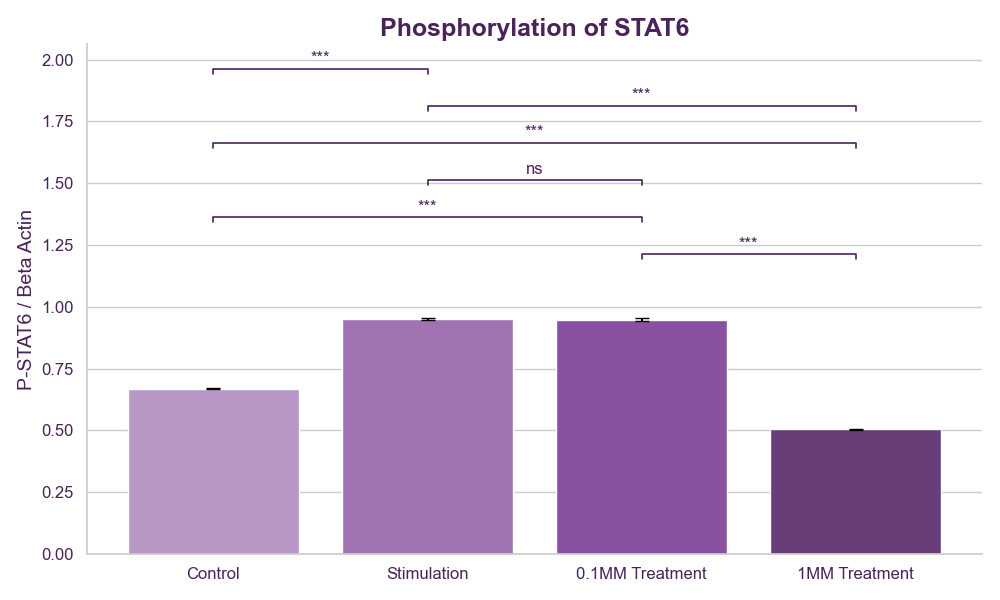
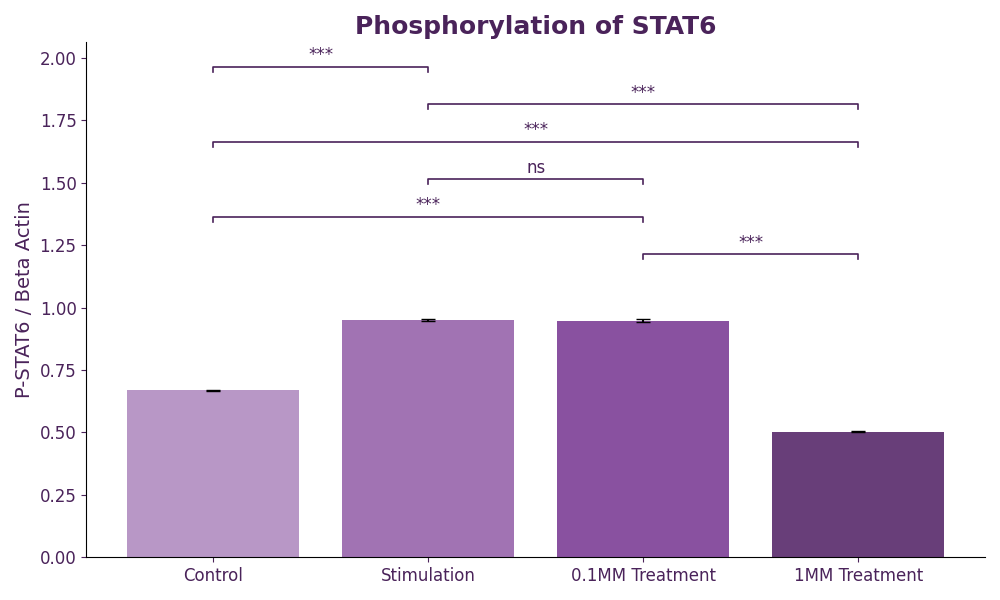
Remove redundant seaborn theme setting and update pstat6_plot.png

diff --git a/scripts/p-stat-6/analysis.py b/scripts/p-stat-6/analysis.py
@@ -72,9 +72,6 @@ print(significant_groups)
 group_order = ['Control', 'Stimulation', '0.1MM Treatment', '1MM Treatment']
 palette = ['#BB8FCE', '#A569BD', '#8E44AD', '#6C3483']  
 
-
-sns.set_theme(style="whitegrid")
-
 # Calculate standard deviation for each group
 std_control = pd.Series(normalized_control).std()
 std_stimulation = pd.Series(normalized_stimulation).std()
